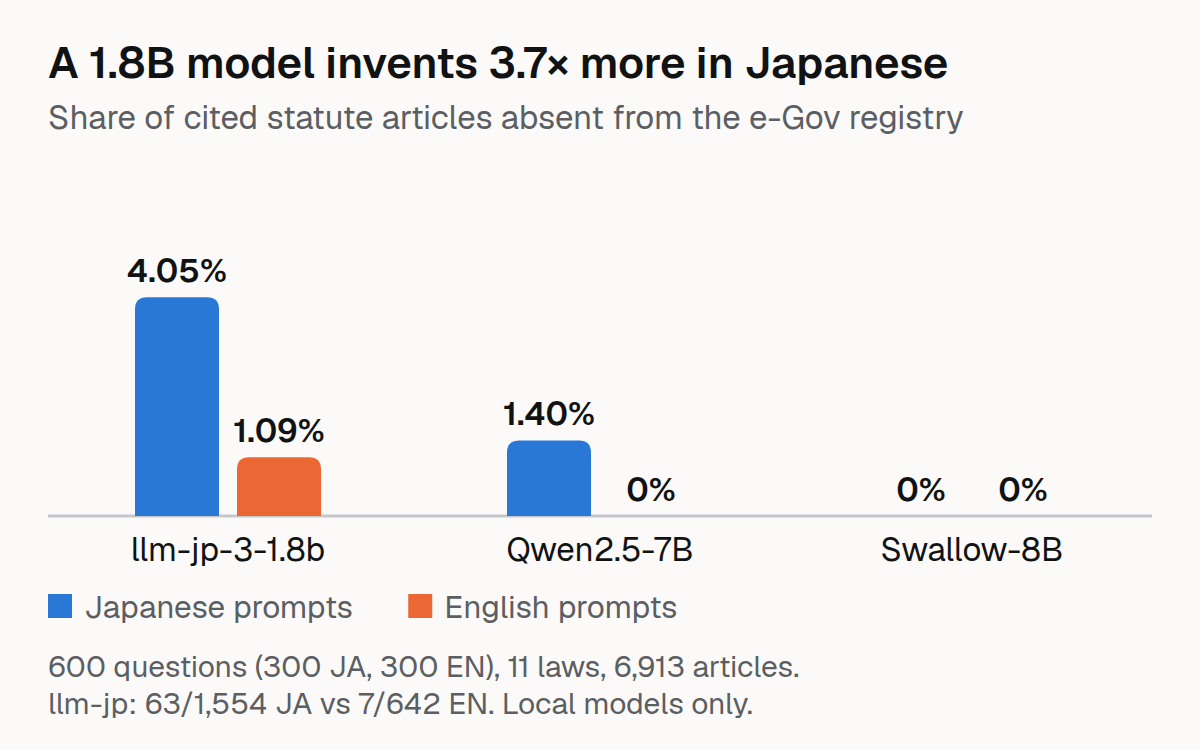
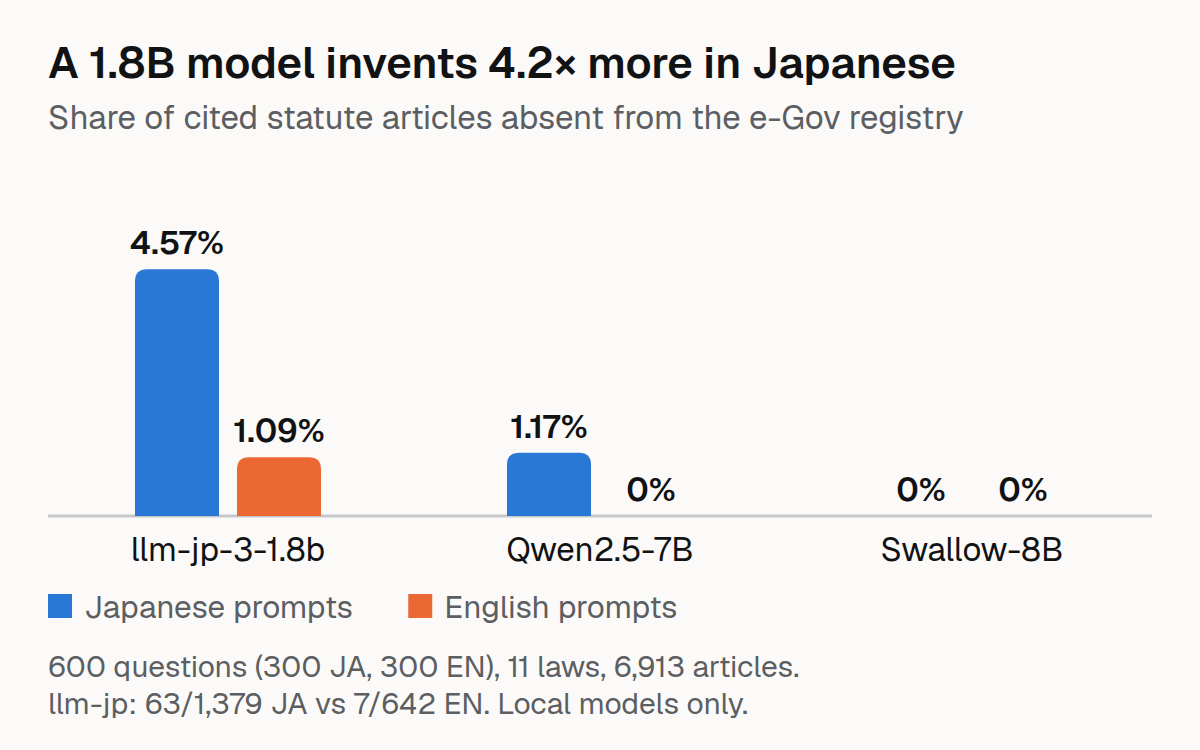
Fix phantom branch citations in the extractor; rescore the published responses; correct README, article and chart
The first extractor reported the prefix of every branch citation (第二条の二 -> '2-2' and '2') as a second citation. Corrected: llm-jp JA 4.05% -> 4.57%, Qwen2.5-7B JA 1.40% -> 1.17%, Swallow unchanged; gold hits unchanged. scripts/rescore.py reproduces the first release exactly and the corrected counts.

diff --git a/scripts/rescore.py b/scripts/rescore.py
@@ -1,0 +1,73 @@
+#!/usr/bin/env python3
+"""Re-score saved model responses with the CURRENT extractor and registry; writes data/results/benchmark.json and prints the tables.
+
+  hf download raihan-js/jacite-bench benchmark.json registry.json --repo-type dataset --local-dir data/hf
+  python scripts/rescore.py --benchmark data/hf/benchmark.json --registry data/hf/registry.json
+
+The old fields are kept as cited_v1 / invented_v1 / n_cited_v1 / n_invented_v1 (what the first release computed with the first extractor); `--check-v1` reproduces
+them with the first extractor's behaviour to show the recorded numbers were exactly its output. Rates are per MENTION (a citation repeated in an answer counts each time).
+"""
+import argparse
+import json
+import math
+import sys
+from collections import defaultdict
+from pathlib import Path
+
+from scipy.stats import fisher_exact
+
+sys.path.insert(0, str(Path(__file__).resolve().parent.parent / "src"))
+from jacite.normaliser import extract_cited_articles, normalise_article_ref  # noqa: E402
+
+
+def wilson(k, n, z=1.96):
+    if n == 0:
+        return (0.0, 0.0)
+    p = k / n
+    d = 1 + z * z / n
+    c = (p + z * z / (2 * n)) / d
+    h = z * math.sqrt(p * (1 - p) / n + z * z / (4 * n * n)) / d
+    return (max(0.0, c - h), min(1.0, c + h))
+
+
+def main():
+    ap = argparse.ArgumentParser()
+    ap.add_argument("--benchmark", default="data/hf/benchmark.json")
+    ap.add_argument("--registry", default="data/hf/registry.json")
+    ap.add_argument("--out", default="data/results/benchmark.json")
+    a = ap.parse_args()
+    rows = json.loads(Path(a.benchmark).read_text())
+    reg = json.loads(Path(a.registry).read_text())
+    known = {l["law_id"]: {normalise_article_ref(x["article"]) for x in l["articles"]} - {None} for l in reg["laws"]}
+    out = []
+    for r in rows:
+        r = dict(r)
+        if "cited_v1" not in r:
+            r["cited_v1"], r["invented_v1"], r["n_cited_v1"], r["n_invented_v1"] = r["cited"], r["invented"], r["n_cited"], r["n_invented"]
+        cited = extract_cited_articles(r["response"])
+        ids = known[r["law_id"]]
+        r["cited"], r["invented"] = cited, [c for c in cited if c not in ids]
+        r["real_not_gold"] = sorted({c for c in cited if c in ids and c != r["gold_article"]})
+        r["n_cited"], r["n_invented"] = len(cited), len(r["invented"])
+        out.append(r)
+    Path(a.out).parent.mkdir(parents=True, exist_ok=True)
+    Path(a.out).write_text(json.dumps(out, indent=2, ensure_ascii=False))
+    agg = defaultdict(lambda: defaultdict(int))
+    for r in out:
+        k = (r["model"].split("/")[-1], r["language"])
+        agg[k]["n"] += r["n_cited"]; agg[k]["inv"] += r["n_invented"]; agg[k]["n_v1"] += r["n_cited_v1"]; agg[k]["inv_v1"] += r["n_invented_v1"]
+        agg[k]["q"] += 1; agg[k]["gold"] += r["gold_article"] in set(r["cited"]); agg[k]["gold_v1"] += r["gold_article"] in set(eval(r["cited_v1"]) if isinstance(r["cited_v1"], str) else r["cited_v1"])
+    print(f"{'model':36s} {'lang':4s} | first release  | corrected      | rate [Wilson 95%]       | gold hit")
+    for (m, lang), v in sorted(agg.items()):
+        lo, hi = wilson(v["inv"], v["n"])
+        print(f"{m:36s} {lang:4s} | {v['inv_v1']:3d}/{v['n_v1']:5d}  | {v['inv']:3d}/{v['n']:5d}  | {100 * v['inv'] / max(v['n'], 1):5.2f}% [{100 * lo:.1f}, {100 * hi:.1f}] | {v['gold']}/{v['q']} (was {v['gold_v1']})")
+    print("\nFisher exact, Japanese vs English (per mention):")
+    for m in sorted({k[0] for k in agg}):
+        j, e = agg[(m, "ja")], agg[(m, "en")]
+        p = fisher_exact([[j["inv"], j["n"] - j["inv"]], [e["inv"], e["n"] - e["inv"]]])[1] if j["inv"] + e["inv"] else float("nan")
+        ratio = (j["inv"] / j["n"]) / (e["inv"] / e["n"]) if e["inv"] else float("nan")
+        print(f"  {m:36s} JA {j['inv']}/{j['n']} vs EN {e['inv']}/{e['n']}  ratio {ratio:.2f}  p = {p:.3g}")
+
+
+if __name__ == "__main__":
+    main()

diff --git a/scripts/upload_hf.py b/scripts/upload_hf.py
@@ -3,7 +3,12 @@
 import subprocess, sys
 from huggingface_hub import HfApi
 
-subprocess.run([sys.executable, "scripts/merge_results.py"], check=True)  # keep every model in benchmark.json
+# data/results/benchmark.json is written by scripts/rescore.py (corrected extractor; first-release values kept as *_v1). merge_results.py is only needed when
+# the per-model files from a fresh run_benchmark.py exist next to it.
+import json
+from pathlib import Path
+if not Path("data/results/benchmark.json").exists() or "cited_v1" not in json.loads(Path("data/results/benchmark.json").read_text())[0]:
+    subprocess.run([sys.executable, "scripts/merge_results.py"], check=True)
 
 api = HfApi()
 
@@ -14,6 +19,9 @@ files = [
 ]
 
 for local, remote in files:
+    if not Path(local).exists():                      # unchanged files may not be on this machine (restore with `hf download`); skip them
+        print(f"  skipped {remote} (not found locally)")
+        continue
     api.upload_file(
         path_or_fileobj=local,
         path_in_repo=remote,
@@ -39,16 +47,22 @@ Do LLMs invent Japanese law articles? Bilingual benchmark checking every cited a
 
 ## Files
 
-- `registry.json` — 11 laws, 6,913 articles from e-Gov Law API v2
+- `registry.json` — 11 laws, 6,913 articles listed (4,842 distinct canonical ids) from e-Gov Law API v2; supplementary provisions and deleted placeholders ("削除") are included
 - `questions.json` — 600 questions (300 JA, 300 EN) generated from article captions
-- `benchmark.json` — 3 models x 600 questions with invented-citation rates
+- `benchmark.json` — 3 models x 600 questions with the model response and its citations. `cited`, `invented`, `n_cited`, `n_invented`, `real_not_gold` are the CORRECTED values; the first release's values are kept as `cited_v1`, `invented_v1`, `n_cited_v1`, `n_invented_v1`
+
+## Correction (2026-10-06)
+
+The first release's extractor reported the prefix of every branch citation as a phantom second citation (第二条の二 gave "2-2" and "2"). Corrected rates (invented mentions / cited mentions):
+- llm-jp-3-1.8b: JA 63/1,379 = 4.57% (was 4.05%), EN 7/642 = 1.09%; ratio 4.2x (was 3.7x)
+- Qwen2.5-7B: JA 7/597 = 1.17% (was 9/643 = 1.40%), EN 0/567
+- Swallow-8B: 0/753 JA, 0/670 EN (unchanged)
+
+Gold-hit counts are unchanged. A citation of a deleted placeholder (e.g. 民法第208条) counts as existing here; excluding deleted placeholders gives 66/1,379, 12/597 and 2/753 for the Japanese answers.
 
 ## Key finding
 
-LLMs invent Japanese law articles more often when asked in Japanese:
-- llm-jp-3-1.8b: JA 4.05%, EN 1.09%
-- Qwen2.5-7B: JA 1.40%, EN 0.00%
-- Swallow-8B: 0% both languages
+LLMs invent Japanese law articles more often when asked in Japanese (llm-jp-3-1.8b 4.57% vs 1.09%, Qwen2.5-7B 1.17% vs 0.00%); Swallow-8B invents none under the registry definition above.
 """
 
 api.upload_file(

diff --git a/src/jacite/normaliser.py b/src/jacite/normaliser.py
@@ -104,26 +104,23 @@ def normalise_article_ref(ref: str) -> str | None:
     return None
 
 
-def extract_cited_articles(text: str) -> list[str]:
-    """Extract all article citations from a text.
+_NUM = r'[零一二三四五六七八九十百千\d]+'
+# One left-to-right pass. The first version ran three patterns one after the other over the whole text, which (a) returned citations grouped by pattern instead of in
+# text order and (b) reported the prefix 第二条 of every branch citation 第二条の二 as a second, phantom citation ("2"). Fixed 2026-10-06; see README, "Correction".
+_CITATION_RE = re.compile(rf'第({_NUM})条((?:の{_NUM})*)|Article\s+(\d+(?:-\d+)*)', re.IGNORECASE)
 
-    Returns a list of canonical article IDs.
-    """
+
+def extract_cited_articles(text: str) -> list[str]:
+    """Extract every article citation (one entry per mention, in text order) as a canonical id: 第二条の二 -> "2-2", 第百二十五条の二の三 -> "125-2-3", Article 541 -> "541"."""
     if not text:
         return []
-
-    # Pattern: 第...条 or Article ...
-    patterns = [
-        r'第[零一二三四五六七八九十百千\d]+条の[零一二三四五六七八九十百千\d]+',
-        r'第[零一二三四五六七八九十百千\d]+条',
-        r'Article\s+\d+(?:-\d+)?',
-    ]
-
     found = []
-    for pattern in patterns:
-        for m in re.finditer(pattern, text, re.IGNORECASE):
-            canonical = normalise_article_ref(m.group(0))
-            if canonical:
-                found.append(canonical)
-
+    for m in _CITATION_RE.finditer(text):
+        if m.group(1):
+            parts = [kanji_to_int(m.group(1))] + [kanji_to_int(b) for b in re.findall(rf'の({_NUM})', m.group(2))]
+            if None in parts:
+                continue
+            found.append("-".join(str(p) for p in parts))
+        else:
+            found.append(m.group(3))
     return found

diff --git a/tests/test_normaliser.py b/tests/test_normaliser.py
@@ -114,3 +114,24 @@ class TestExtractCitedArticles:
         text = '第541条 and 第541条'
         result = extract_cited_articles(text)
         assert result.count('541') == 2
+
+
+class TestExtractCitedArticles:
+    """Regression tests for the extractor fixed on 2026-10-06 (phantom prefix citations, order)."""
+
+    def test_branch_citation_is_one_citation(self):
+        assert extract_cited_articles('第二条の二') == ['2-2']          # the old extractor also returned a phantom '2'
+        assert extract_cited_articles('民法第四百十二条の二') == ['412-2']
+
+    def test_multi_level_branch(self):
+        assert extract_cited_articles('第百二十五条の二の三') == ['125-2-3']
+
+    def test_text_order_and_one_entry_per_mention(self):
+        assert extract_cited_articles('第五条、Article 7、第五条、第三条の二') == ['5', '7', '5', '3-2']
+
+    def test_english_and_fullwidth_forms(self):
+        assert extract_cited_articles('See Article 415-2 and Article 541.') == ['415-2', '541']
+        assert extract_cited_articles('第５４１条') == ['541']
+
+    def test_empty(self):
+        assert extract_cited_articles('') == [] and extract_cited_articles(None) == []

diff --git a/README.md b/README.md
@@ -17,25 +17,29 @@ LLMs cite Japanese law articles in their answers. But do those articles actually
 
 ## Results
 
+> **Correction, 2026-10-06.** The first release's citation extractor reported the prefix of every branch citation as a second, phantom citation (第二条の二 gave both "2-2" and "2"). That inflated the number of citations in Japanese answers (llm-jp 1,554 → 1,379 mentions, Qwen2.5-7B 643 → 597, Swallow-8B 793 → 753; English unchanged) and counted 2 phantom citations of Qwen as invented. **Corrected:** llm-jp JA 4.05% → 4.57% (JA/EN ratio 3.7× → 4.2×), Qwen2.5-7B JA 1.40% (9/643) → 1.17% (7/597), Swallow-8B unchanged at 0; the gold-hit counts below are unchanged, and so are the conclusions. Found while building another project that reuses the extractor. `scripts/rescore.py` reproduces the first release's recorded counts exactly and the corrected ones from the published responses.
+>
+> **What "exists" means here.** The registry lists 6,913 articles, which includes supplementary provisions (附則) and deleted placeholders ("削除"); it holds 4,842 distinct canonical ids. A citation of a deleted article such as 民法第208条 or 第516条 therefore counts as real. If deleted placeholders are treated as non-existent (a registry built from the main provisions only), the counts become 66/1,379 (llm-jp, JA), 12/597 (Qwen2.5-7B, JA) and 2/753 (Swallow-8B, JA); the English counts do not change. None of those ten extra mentions is an explicit 附則 citation.
+
 | Model | JA invented | EN invented | JA rate | EN rate |
 |---|---|---|---|---|
-| llm-jp-3-1.8b | 63/1554 | 7/642 | **4.05%** | **1.09%** |
-| Swallow-8B | 0/793 | 0/670 | 0.00% | 0.00% |
-| Qwen2.5-7B | 9/643 | 0/567 | **1.40%** | 0.00% |
+| llm-jp-3-1.8b | 63/1,379 | 7/642 | **4.57%** | **1.09%** |
+| Swallow-8B | 0/753 | 0/670 | 0.00% | 0.00% |
+| Qwen2.5-7B | 7/597 | 0/567 | **1.17%** | 0.00% |
 
-**Two of the three local models invent Japanese law articles more often when asked in Japanese.** The llm-jp model's JA rate is 3.7× its EN rate; Qwen2.5-7B shows the same direction (1.40% vs 0%). Swallow-8B, a Japanese-adapted Llama, invents none in either language.
+**Two of the three local models invent Japanese law articles more often when asked in Japanese.** The llm-jp model's JA rate is 4.2× its EN rate; Qwen2.5-7B shows the same direction (1.17% vs 0%). Swallow-8B, a Japanese-adapted Llama, invents none in either language (under the registry definition above; 2 of 753 Japanese mentions if deleted placeholders are excluded).
 
 ### Uncertainty
 
-Wilson 95% intervals and Fisher exact tests on the citation counts (rate = invented / all cited articles):
+Wilson 95% intervals and Fisher exact tests on the citation counts (rate = invented mentions / all cited mentions; a citation repeated in an answer counts each time):
 
 | Model | JA invented | EN invented | JA 95% CI | EN 95% CI | Fisher p, JA vs EN |
 |---|---|---|---|---|---|
-| llm-jp-3-1.8b | 63/1,554 | 7/642 | [3.2%, 5.2%] | [0.5%, 2.2%] | 1.4e-4 |
-| Qwen2.5-7B | 9/643 | 0/567 | [0.7%, 2.6%] | [0.0%, 0.7%] | 0.0043 |
-| Swallow-8B | 0/793 | 0/670 | [0.0%, 0.5%] | [0.0%, 0.6%] | n/a |
+| llm-jp-3-1.8b | 63/1,379 | 7/642 | [3.6%, 5.8%] | [0.5%, 2.2%] | 2.1e-5 |
+| Qwen2.5-7B | 7/597 | 0/567 | [0.6%, 2.4%] | [0.0%, 0.7%] | 0.016 |
+| Swallow-8B | 0/753 | 0/670 | [0.0%, 0.5%] | [0.0%, 0.6%] | n/a |
 
-These treat each cited article as independent. Citations cluster within answers (300 questions per language), so the intervals and p-values are optimistic; a question-level bootstrap is the stricter test. The denominators differ because models cite more articles when answering in Japanese (1,554 vs 642 for llm-jp).
+These treat each cited article as independent. Citations cluster within answers (300 questions per language), so the intervals and p-values are optimistic; a question-level bootstrap is the stricter test. The denominators differ because models cite more articles when answering in Japanese (1,379 vs 642 for llm-jp).
 
 ### Did it cite the gold article?
 
@@ -53,12 +57,12 @@ The `real_not_gold` field in the dataset also records citations that exist in th
 
 1. **Language matters**: JA prompts produce more invented citations than EN prompts for 2 of 3 models
 2. **Size is not the whole story**: the 1.8B model has the highest JA rate and the 8B Japanese-adapted model has 0%, but the models also differ in training data, so this is not a clean size comparison
-3. **The normaliser is the hard part**: Kanji numerals, の-branch numbers, and English forms must all map to one canonical ID
+3. **The normaliser is the hard part**: Kanji numerals, の-branch numbers, and English forms must all map to one canonical ID, and a branch citation must stay one citation (the first release got this wrong; see the correction above)
 4. **Caption-generated questions have a known gold article** without needing a legal expert, at the price of being easier than real questions
 
 ## Limitations
 
-- Checks that an article exists, not whether the legal reasoning is right
+- Checks that an article exists, not whether the legal reasoning is right; a deleted article (削除) counts as existing, and the rates are per mention, not per answer
 - Questions are template-generated from captions — easier and less natural than real use
 - 3 local models only; no frontier API baselines
 - Questions are generated from official article captions, not written by a legal expert

diff --git a/devto_article.md b/devto_article.md
@@ -8,6 +8,12 @@
 
 > Scope note: 3 local Japanese-capable LLMs (1.8B–8B), 600 questions generated from official article captions. Not a legal accuracy test — a grounding test.
 
+## A correction before the results
+
+The first version of this repo, public since 2 October, used a citation extractor that reported the prefix of every branch citation as a second, phantom citation: 第二条の二 produced both "2-2" and "2". I found it while reusing the extractor in another project, where a test of branch articles failed. It inflated the citation counts in Japanese answers (llm-jp 1,554 to 1,379 mentions, Qwen2.5-7B 643 to 597, Swallow-8B 793 to 753; English unchanged) and counted two phantom Qwen citations as invented. The numbers below are corrected: llm-jp's Japanese rate goes from 4.05% to 4.57% (the Japanese/English ratio from 3.7× to 4.2×), Qwen2.5-7B's from 1.40% (9/643) to 1.17% (7/597), Swallow-8B stays at 0, the gold-hit counts do not change, and neither do the conclusions. `scripts/rescore.py` reproduces the first release's recorded counts exactly and the corrected ones from the published responses.
+
+A second caveat from the same audit: the registry's 6,913 listed articles include supplementary provisions and deleted placeholders ("削除"), so a citation of a deleted article such as 民法第208条 counts as real. Treating deleted placeholders as non-existent gives 66/1,379 (llm-jp, Japanese), 12/597 (Qwen2.5-7B, Japanese) and 2/753 (Swallow-8B, Japanese); the English counts do not change.
+
 ## The problem
 
 LLMs cite Japanese law articles in their answers. But do those articles actually exist? Most Japanese LLM evals score answers against gold labels. This one checks grounding against a symbolic source of truth — the e-Gov Law API v2.
@@ -23,23 +29,23 @@ LLMs cite Japanese law articles in their answers. But do those articles actually
 
 | Model | JA invented | EN invented | JA rate | EN rate |
 |---|---|---|---|---|
-| llm-jp-3-1.8b | 63/1554 | 7/642 | **4.05%** | **1.09%** |
-| Swallow-8B | 0/793 | 0/670 | 0.00% | 0.00% |
-| Qwen2.5-7B | 9/643 | 0/567 | **1.40%** | 0.00% |
+| llm-jp-3-1.8b | 63/1,379 | 7/642 | **4.57%** | **1.09%** |
+| Swallow-8B | 0/753 | 0/670 | 0.00% | 0.00% |
+| Qwen2.5-7B | 7/597 | 0/567 | **1.17%** | 0.00% |
 
-**Two of the three local models invent Japanese law articles more often when asked in Japanese.** The llm-jp model's JA rate is 3.7× its EN rate; Qwen2.5-7B shows the same direction (1.40% vs 0%). Swallow-8B, a Japanese-adapted Llama, invents none in either language.
+**Two of the three local models invent Japanese law articles more often when asked in Japanese.** The llm-jp model's JA rate is 4.2× its EN rate; Qwen2.5-7B shows the same direction (1.17% vs 0%). Swallow-8B, a Japanese-adapted Llama, invents none in either language (under the registry definition below; 2 of 753 Japanese mentions if deleted placeholders are excluded).
 
 ### Uncertainty
 
-Wilson 95% intervals and Fisher exact tests on the citation counts (rate = invented / all cited articles):
+Wilson 95% intervals and Fisher exact tests on the citation counts (rate = invented mentions / all cited mentions; a citation repeated in an answer counts each time):
 
 | Model | JA invented | EN invented | JA 95% CI | EN 95% CI | Fisher p, JA vs EN |
 |---|---|---|---|---|---|
-| llm-jp-3-1.8b | 63/1,554 | 7/642 | [3.2%, 5.2%] | [0.5%, 2.2%] | 1.4e-4 |
-| Qwen2.5-7B | 9/643 | 0/567 | [0.7%, 2.6%] | [0.0%, 0.7%] | 0.0043 |
-| Swallow-8B | 0/793 | 0/670 | [0.0%, 0.5%] | [0.0%, 0.6%] | n/a |
+| llm-jp-3-1.8b | 63/1,379 | 7/642 | [3.6%, 5.8%] | [0.5%, 2.2%] | 2.1e-5 |
+| Qwen2.5-7B | 7/597 | 0/567 | [0.6%, 2.4%] | [0.0%, 0.7%] | 0.016 |
+| Swallow-8B | 0/753 | 0/670 | [0.0%, 0.5%] | [0.0%, 0.6%] | n/a |
 
-These treat each cited article as independent. Citations cluster within answers (300 questions per language), so the intervals and p-values are optimistic; a question-level bootstrap is the stricter test. The denominators differ because models cite more articles when answering in Japanese (1,554 vs 642 for llm-jp).
+These treat each cited article as independent. Citations cluster within answers (300 questions per language), so the intervals and p-values are optimistic; a question-level bootstrap is the stricter test. The denominators differ because models cite more articles when answering in Japanese (1,379 vs 642 for llm-jp).
 
 ### Did it cite the gold article?
 

diff --git a/AGENTS.md b/AGENTS.md
@@ -53,7 +53,7 @@ PYTHONPATH=src python scripts/run_benchmark.py
 ## Current status
 
 - Registry: 11 laws, 6,913 articles from e-Gov API
-- Normaliser: 25 tests passing
+- Normaliser: 23 tests passing (incl. regression tests for the phantom branch-citation bug fixed 2026-10-06)
 - Questions: 600 generated (300 JA, 300 EN)
-- Benchmark: running (4 models × 600 questions)
-- Pending: HF dataset, dev.to article
+- Benchmark: done (3 models × 600 questions). Rates are per mention. CORRECTED 2026-10-06: the first extractor reported the prefix of every branch citation as a phantom citation; corrected llm-jp JA 4.57% (63/1,379), Qwen2.5-7B JA 1.17% (7/597), Swallow-8B 0; see README "Correction" and scripts/rescore.py
+- HF dataset updated (corrected fields + *_v1 first-release fields); dev.to article queued
